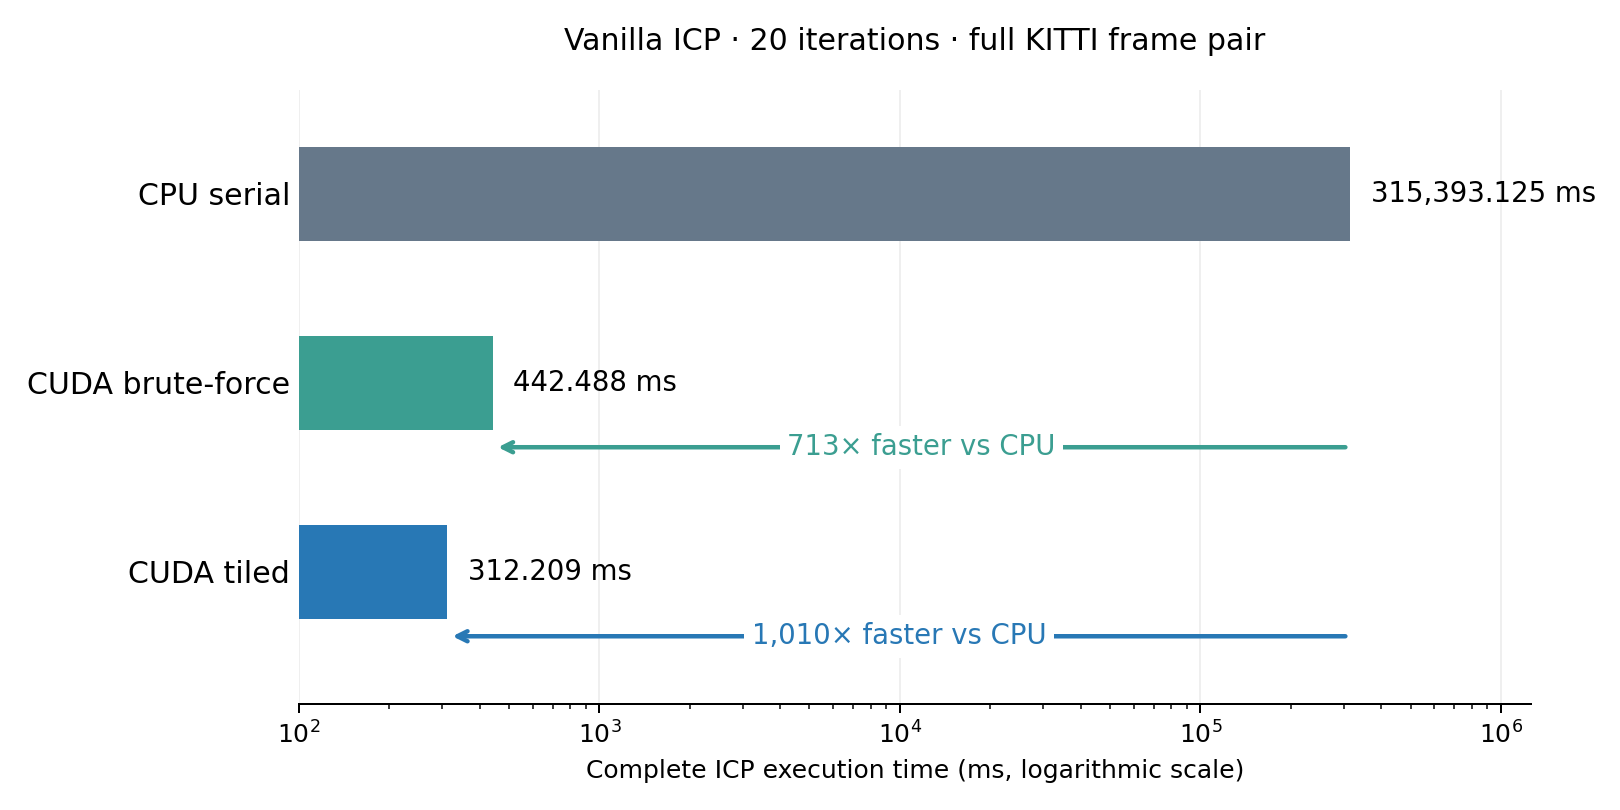
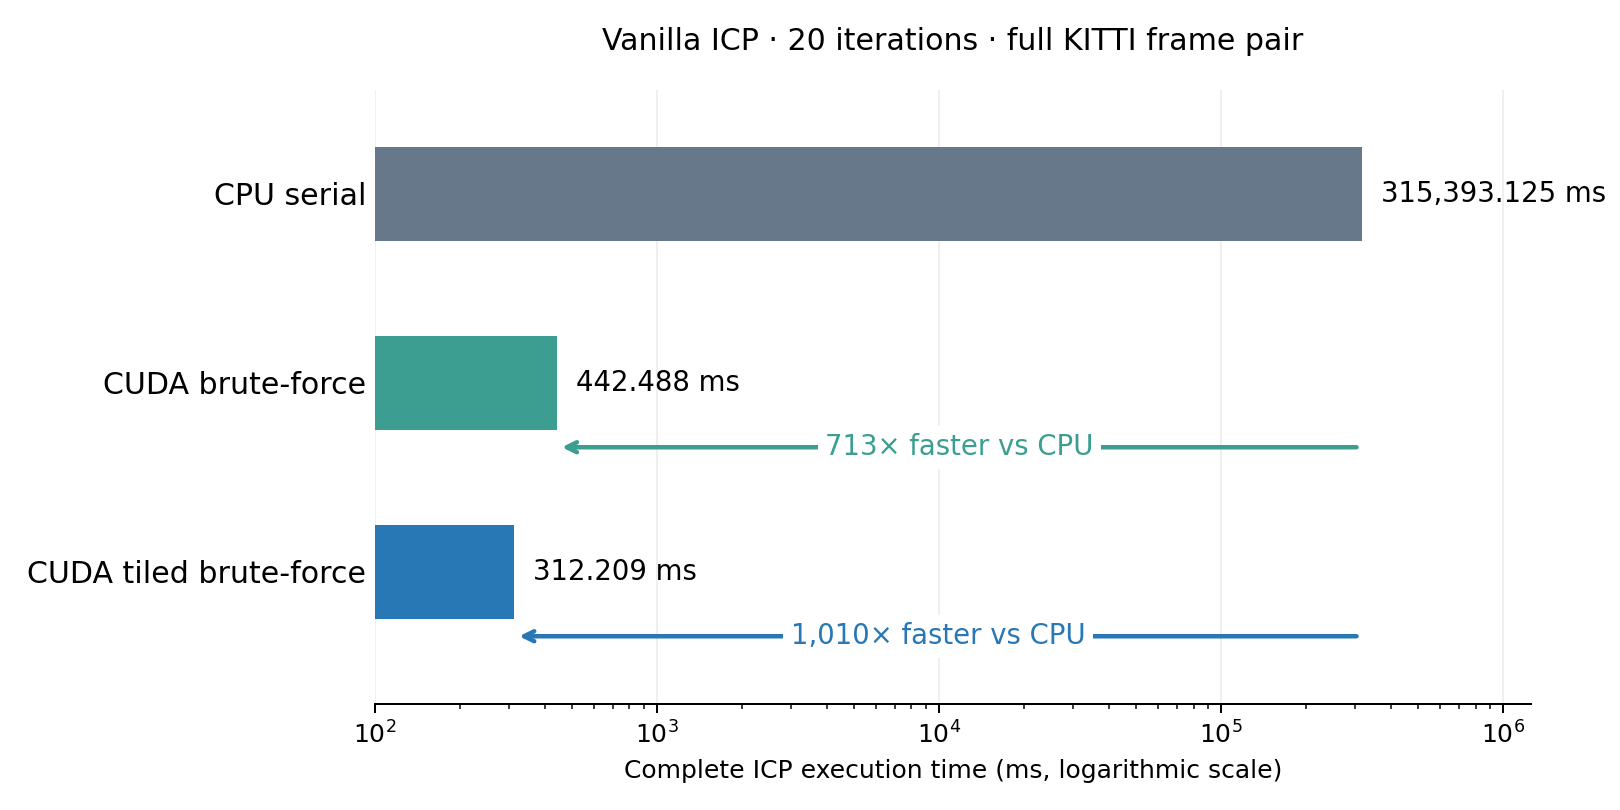
docs: simplify README and show iteration animation

diff --git a/scripts/plot_execution_time.py b/scripts/plot_execution_time.py
@@ -15,13 +15,14 @@ with CSV.open(newline='') as file:
     rows = [{key.strip(): value.strip() for key, value in row.items()}
             for row in csv.DictReader(file, skipinitialspace=True)]
 
-labels = [row['method'] for row in rows]
-times = np.array([float(row['execution_time_ms']) for row in rows])
+measured = [row for row in rows if row['execution_time_ms'] != 'TBD']
+labels = [row['method'] for row in measured]
+times = np.array([float(row['execution_time_ms']) for row in measured])
 
 fig, ax = plt.subplots(figsize=(9, 4.5), dpi=180)
-y = np.arange(len(rows))
+y = np.arange(len(measured))
 colors = ['#66788a', '#3b9e91', '#2878b5']
-ax.barh(y, times, height=.5, color=colors[:len(rows)])
+ax.barh(y, times, height=.5, color=colors[:len(measured)])
 for index, value in enumerate(times):
     ax.text(value * 1.17, index, f'{value:,.3f} ms', va='center', fontsize=11)
 ax.set_yticks(y)
@@ -37,7 +38,7 @@ for spine in ['top', 'right', 'left']:
     ax.spines[spine].set_visible(False)
 ax.tick_params(axis='y', length=0)
 # Arrow endpoints are measured CPU/GPU times on the logarithmic axis.
-for index in range(1, len(rows)):
+for index in range(1, len(measured)):
     arrow_y = index + .34
     ratio = times[0] / times[index]
     ax.annotate('', xy=(times[index], arrow_y), xytext=(times[0], arrow_y),
@@ -46,7 +47,7 @@ for index in range(1, len(rows)):
             f'{ratio:,.0f}× faster vs CPU', ha='center', va='center',
             fontsize=11, color=colors[index],
             bbox=dict(facecolor='white', edgecolor='none', pad=3))
-ax.set_ylim(len(rows) - .3, -.55)
+ax.set_ylim(len(measured) - .3, -.55)
 fig.tight_layout()
 OUT.mkdir(parents=True, exist_ok=True)
 IMAGE.parent.mkdir(parents=True, exist_ok=True)
@@ -54,11 +55,16 @@ fig.savefig(OUT / 'execution_time.png', facecolor='white')
 fig.savefig(IMAGE, facecolor='white')
 plt.close(fig)
 
-table = ['| Method | Execution time (ms) | Runs | Statistic |',
-         '| --- | ---: | ---: | --- |']
+table = ['| Method | Execution time (ms) | Translation error | Rotation error | Inliers |',
+         '| --- | ---: | ---: | ---: | ---: |']
 for row in rows:
-    table.append(f"| {row['method']} | {float(row['execution_time_ms']):,.3f} "
-                 f"| {row['runs']} | {row['statistic']} |")
+    if row['execution_time_ms'] == 'TBD':
+        table.append(f"| {row['method']} | TBD | TBD | TBD | TBD |")
+    else:
+        table.append(f"| {row['method']} | {float(row['execution_time_ms']):,.3f} "
+                     f"| {float(row['translation_error_cm']):.2f} cm "
+                     f"| {float(row['rotation_error_deg']):.5f}° "
+                     f"| {int(row['inliers']):,} |")
 markdown = '\n'.join(table)
 (OUT / 'execution_time_table.md').write_text(markdown + '\n')
 readme = ROOT / 'README.md'

diff --git a/README.md b/README.md
@@ -4,49 +4,26 @@ Align two LiDAR point clouds using point-to-point ICP, then accelerate the same
 five-stage algorithm with native CUDA. The CPU implementation provides the
 reference for evaluating CUDA correctness and performance.
 
-![Vanilla ICP registration before and after](docs/images/vanilla-registration.png)
-
-KITTI sequence 00, frame 1 aligned to frame 0. Blue: target; orange: source.
-The same local points and camera are used before and after. This example uses
-saved full-cloud CPU results from 69 iterations; the current CPU default is 20.
-See [validation results](docs/CPU_PAIR_VALIDATION.md) for pose errors and settings.
+![Vanilla ICP registration over 20 iterations](docs/images/vanilla-iterations.gif)
 
 ## Results
 
-KITTI sequence 00, frame 1 → 0, all 124,605 source and 124,668 target points,
-20 iterations, identity initialization, 1 m cutoff. CPU: one serial run on
-AMD EPYC 9534. GPU: median of three runs on NVIDIA L40S. Times measure the
-complete registration call, excluding file loading and compilation.
+KITTI sequence 00, frame 1 → 0, 124,605 source points and 124,668 target points.
+20 iterations. CPU: AMD EPYC 9534. GPU: NVIDIA L40S.
 
 <!-- execution-time-results:start -->
 
-| Method | Execution time (ms) | Runs | Statistic |
-| --- | ---: | ---: | --- |
-| CPU serial | 315,393.125 | 1 | single |
-| CUDA brute-force | 442.488 | 3 | median |
-| CUDA tiled | 312.209 | 3 | median |
+| Method | Execution time (ms) | Translation error | Rotation error | Inliers |
+| --- | ---: | ---: | ---: | ---: |
+| CPU serial | 315,393.125 | 24.08 cm | 0.12556° | 123,329 |
+| CUDA brute-force | 442.488 | 24.08 cm | 0.12556° | 123,329 |
+| CUDA tiled brute-force | 312.209 | 24.08 cm | 0.12556° | 123,329 |
+| CUDA KDtree | TBD | TBD | TBD | TBD |
+| CUDA voxel-grid | TBD | TBD | TBD | TBD |
 
 ![Measured execution times](docs/images/execution_time.png)
 
 <!-- execution-time-results:end -->
-
-| Accuracy metric | CPU serial | CUDA brute-force | CUDA tiled |
-| --- | ---: | ---: | ---: |
-| Translation error | 24.08 cm | 24.08 cm | 24.08 cm |
-| Rotation error | 0.12556° | 0.12556° | 0.12556° |
-| Inliers | 123,329 | 123,329 | 123,329 |
-
-All three methods returned the same final pose, 123,329 inliers and
-0.142262415058 m RMSE at printed precision. None converged within 20 iterations.
-These are the existing measurements; KD-tree and voxel-grid remain unmeasured.
-See [accuracy, timing scopes and evidence](docs/CPU_CUDA_COMPARISON.md).
-
-The table and plot are parsed from [scripts/result.csv](scripts/result.csv).
-Regenerate them without running ICP:
-
-```sh
-python3 scripts/plot_execution_time.py
-```
 
 ## Build and run
 
@@ -110,37 +87,6 @@ on an NVIDIA L40S. See [CPU/CUDA accuracy and latency](docs/CPU_CUDA_COMPARISON.
 Historical full-cloud vanilla converged at 69 iterations; see
 [validation](docs/CPU_PAIR_VALIDATION.md).
 
-## 3D visualization
-
-```sh
-python3 scripts/visualize_registration.py
-```
-
-The script reads original `.bin` frames and an existing result JSON with
-`T_target_source`; edit SOURCE, TARGET, RESULT and OUT at its top for another run.
-It generates a 3D overview, fixed-camera close-up PNG and before/after toggle GIF
-under `scripts/result/` (generated files are ignored by Git). The GIF alternates saved endpoint poses; it does
-not replay ICP iterations. No registration is performed by the visualizer.
-The default result is the existing local full-cloud vanilla result; fresh clones
-must supply their own saved pose JSON. NumPy, Matplotlib and Pillow are required.
-
-`make cpu` invokes `tests/run_cpu.sh`; `make gpu` invokes `tests/run_gpu.sh`.
-Add `RUN=1` for execution. Previous preprocessing, benchmark, download, evaluation and Python
-unit-test scripts were removed; historical validation records refer to their
-original revisions.
-
-To animate recorded iterations instead of toggling only the endpoints:
-
-```sh
-python3 scripts/animate_iterations.py
-```
-
-Set RUN at the top to the recorded run directory. The script uses point dumps
-when available; otherwise it reconstructs coordinates from `iterations.csv`
-poses and the original binary clouds. It includes the initial state and every
-recorded update, with fixed point selection and camera, and performs no ICP run.
-The default output is `scripts/result/cpu-g5dVQq-iterations.gif`.
-
 ## Project layout
 
 ```text
@@ -157,8 +103,8 @@ data/               Local binary frames and format guide
 ```
 
 Each implementation owns its header and build files. The root CMake build selects
-CPU by default or CUDA with `-DICP_ENABLE_CUDA=ON`. Source-local C++ test folders
-were removed at the user's request; the root Python tool tests remain.
+CPU by default or CUDA with `-DICP_ENABLE_CUDA=ON`. Build and run scripts are
+in `tests/`.
 
 See [vanilla ICP design](docs/VANILLA_DESIGN.md),
 [existing CUDA optimizations](docs/VANILLA_OPTIMIZATIONS.md), and
@@ -168,67 +114,9 @@ See [vanilla ICP design](docs/VANILLA_DESIGN.md),
 Earlier implementations remain available in Git history at
 [`d46bb94`](https://github.com/sangjae4309/icp-cuda-accel/tree/d46bb9486a361bebdfdb6ab7ad84d9a561bf9b1b).
 
-## How to contribute
+## Contributing
 
-We use topic branches and pull requests, inspired by
-[gem5's contribution workflow](https://www.gem5.org/contributing).
-Our integration branch is `main` (gem5 uses `develop`). Do not push work directly
-onto `main`; submit a focused PR and obtain a teammate's review before merging.
-
-| Item | Project convention | Example |
-|---|---|---|
-| Branch | `<area>/<short-change>` in lowercase kebab-case | `integration/update-draftcode` |
-| Commit title | `<area>: <change>` | `integration: update draftcode` |
-| PR title | Same format as commit title | `integration: update draftcode` |
-
-The colon format comes from gem5's **commit** convention, not its branch naming.
-The slash-based branch convention is our project rule: Git forbids colons and
-spaces in branch names. Use areas such as `integration`, `transform`,
-`correspondence`, `statistics`, `solver`, `validation`, or `docs`.
-
-1. Pick a task from [TASKS.md](docs/TASKS.md) and coordinate its owner.
-2. Update `main`, then create a branch for that task.
-3. Implement and test the change; keep unrelated work in separate PRs.
-4. Commit, push the branch, and open a pull request targeting `main`.
-5. Describe the change and test evidence, request a teammate's review, and address
-   feedback on the same branch. Merge only after approval and applicable checks.
-
-```sh
-git switch main
-git pull --ff-only origin main
-git switch -c integration/update-draftcode
-# Edit files and run the relevant checks.
-git add <changed-files>
-git commit -m "integration: update draftcode"
-git push -u origin integration/update-draftcode
-```
-
-On GitHub, choose **Compare & pull request**, set base `main` and compare
-`integration/update-draftcode`, then use `integration: update draftcode` as the title.
-With an authenticated GitHub CLI, the equivalent is:
-
-```sh
-gh pr create --base main --head integration/update-draftcode \
-  --title "integration: update draftcode" --body-file /tmp/icp-pr.md
-```
-
-Write the PR description into `/tmp/icp-pr.md` first. See the full
-[contribution guide](docs/CONTRIBUTING.md) for validation, review, and fork workflows.
-
-Agent guidance, reusable workflows and documentation policy are routed by
-[the documentation map](docs/README.md).
-
-
-## Output fields
-
-`execution_time_ms` measures the complete registration call using the host
-monotonic clock: workspace setup, iterations, final-pose evaluation and cleanup.
-For CUDA this includes transfers and host work; it is not kernel-only timing.
-Input-file loading, build time and console printing are excluded.
-`inliers` counts original source points whose final nearest target is within the
-1 m cutoff. Matches are many-to-one and are not verified physical correspondences.
-`rmse` is computed over those final inliers. `converged=0` with `iterations=20`
-means the CPU iteration budget was exhausted before the convergence criterion.
+See [CONTRIBUTE.md](CONTRIBUTE.md).
 
 ## Iteration logs and optional point dumps
 

diff --git a/CONTRIBUTE.md b/CONTRIBUTE.md
@@ -35,7 +35,7 @@ area to keep ownership clear.
 
 Start from an up-to-date `main` in a clean working tree. Create a topic branch,
 implement one coherent change, run relevant checks, and commit only intended files.
-See the commands in [README](../README.md#how-to-contribute).
+See the commands in [README](README.md#build-and-run).
 
 Collaborators may push their topic branch to this repository. Contributors without
 write access should fork, branch from the upstream `main`, push to their fork, then
@@ -52,14 +52,14 @@ Do not include unrelated changes or claim unexecuted tests passed.
 ## Validation and PR description
 
 Run CPU/GPU builds and tests inside Slurm `interactive-gpu`; use one-minute jobs
-for current small checks. Build commands are in [DRAFT.md](DRAFT.md).
+for current small checks. Build commands are in [DRAFT.md](docs/DRAFT.md).
 
 - CPU changes: Release build, CTest, and existing Python tool tests.
 - CUDA changes: inspect actual GPU/toolkit, select architecture explicitly, build
   and run GPU tests; use memcheck and synccheck where supported.
 - Documentation-only changes: verify links, examples and whitespace; no need to
   rerun algorithm tests when executable code has not changed.
-- Future algorithm changes: add applicable correctness cases from [TASKS.md](TASKS.md).
+- Future algorithm changes: add applicable correctness cases from [TASKS.md](docs/TASKS.md).
   Benchmark only after correctness with matching settings.
 
 PR descriptions should state the problem, resulting behavior, affected modules,
@@ -85,5 +85,5 @@ must be updated after a rebase, coordinate with collaborators and use
 Keep simple structs, raw pointers, explicit sizes and separate host/device functions.
 Maintain independent CPU and GPU drafts. Document buffer ownership and preserve
 column-vector, left-composition and original-source conventions in
-[DATAFLOW.md](DATAFLOW.md). Put documentation in `docs/`. Keep repository prose,
+[DATAFLOW.md](docs/DATAFLOW.md). Put documentation in `docs/`. Keep repository prose,
 comments and reports in English.

diff --git a/docs/README.md b/docs/README.md
@@ -17,7 +17,7 @@ project documentation. Use the guides below for source layout, design and result
 | [Team tasks](TASKS.md) | Assigned implementation boundaries |
 | [Recorded draft validation](DRAFT_VALIDATION.md) | Historical infrastructure checks and limits |
 | [Historical validation](HISTORICAL_VALIDATION.md) | Earlier verification evidence |
-| [Contributing](CONTRIBUTING.md) | Branches, reviews and validation policy |
+| [Contributing](../CONTRIBUTE.md) | Branches, reviews and validation policy |
 
 
 Detailed design and task contracts stay here. Historical validation records are
